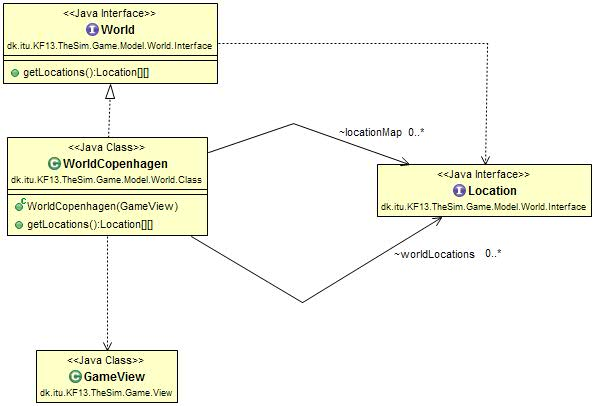
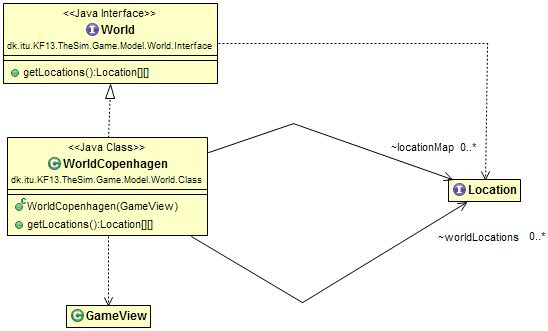
Updated World and Locations UML and made some changes to the MasterLocation

diff --git a/TheGreatestGameInTheWorld/src/dk/itu/KF13/TheSim/Game/Model/World/AbstractClass/MasterLocation.java b/TheGreatestGameInTheWorld/src/dk/itu/KF13/TheSim/Game/Model/World/AbstractClass/MasterLocation.java
@@ -142,27 +142,27 @@ public abstract class MasterLocation implements Location {
 	
 	public abstract String getDescription();
 
-	public List<GameObject> getObjectsAtLocation() {
+	protected List<GameObject> getObjectsAtLocation() {
 		return objectsAtLocation;
 	}
 
-	public void setObjectsAtLocation(List<GameObject> objectsAtLocation) {
+	protected void setObjectsAtLocation(List<GameObject> objectsAtLocation) {
 		this.objectsAtLocation = objectsAtLocation;
 	}
 
-	public GameView getView() {
+	protected GameView getView() {
 		return view;
 	}
 
-	public void setView(GameView view) {
+	protected void setView(GameView view) {
 		this.view = view;
 	}
 
-	public WorldCopenhagen getCopenhagen() {
+	protected WorldCopenhagen getCopenhagen() {
 		return copenhagen;
 	}
 
-	public void setCopenhagen(WorldCopenhagen copenhagen) {
+	protected void setCopenhagen(WorldCopenhagen copenhagen) {
 		this.copenhagen = copenhagen;
 	}
 }
